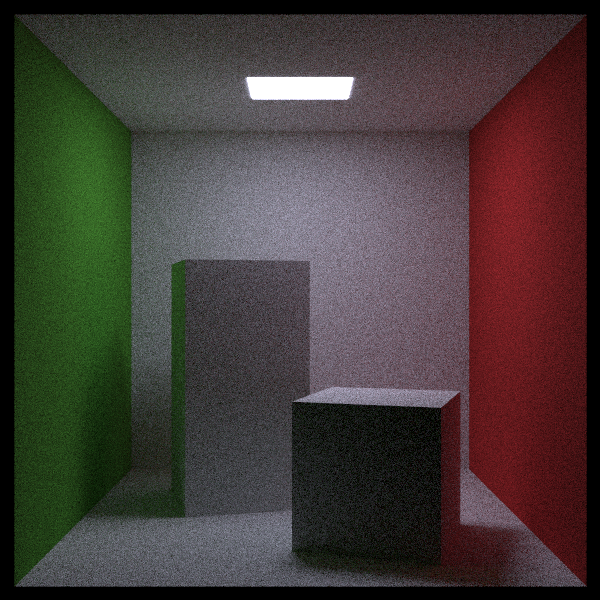
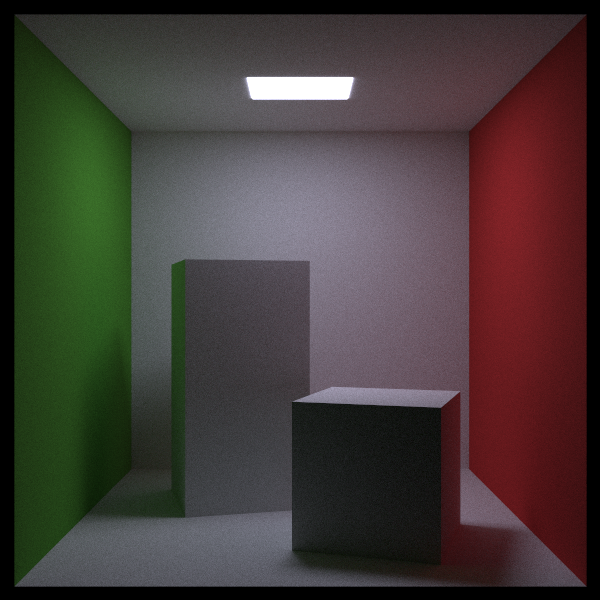
10000spp cornellbox

diff --git a/src/RT/Main.java b/src/RT/Main.java
@@ -61,7 +61,7 @@ public class Main extends Application {
         BVHnode world = new BVHnode(scene, t0, t1);
 
 
-        int spp = 1000;
+        int spp = 10000;
         int MaxDepth = 50;
         WritableImage image = new WritableImage(W, H);
         PixelWriter pw = image.getPixelWriter();
